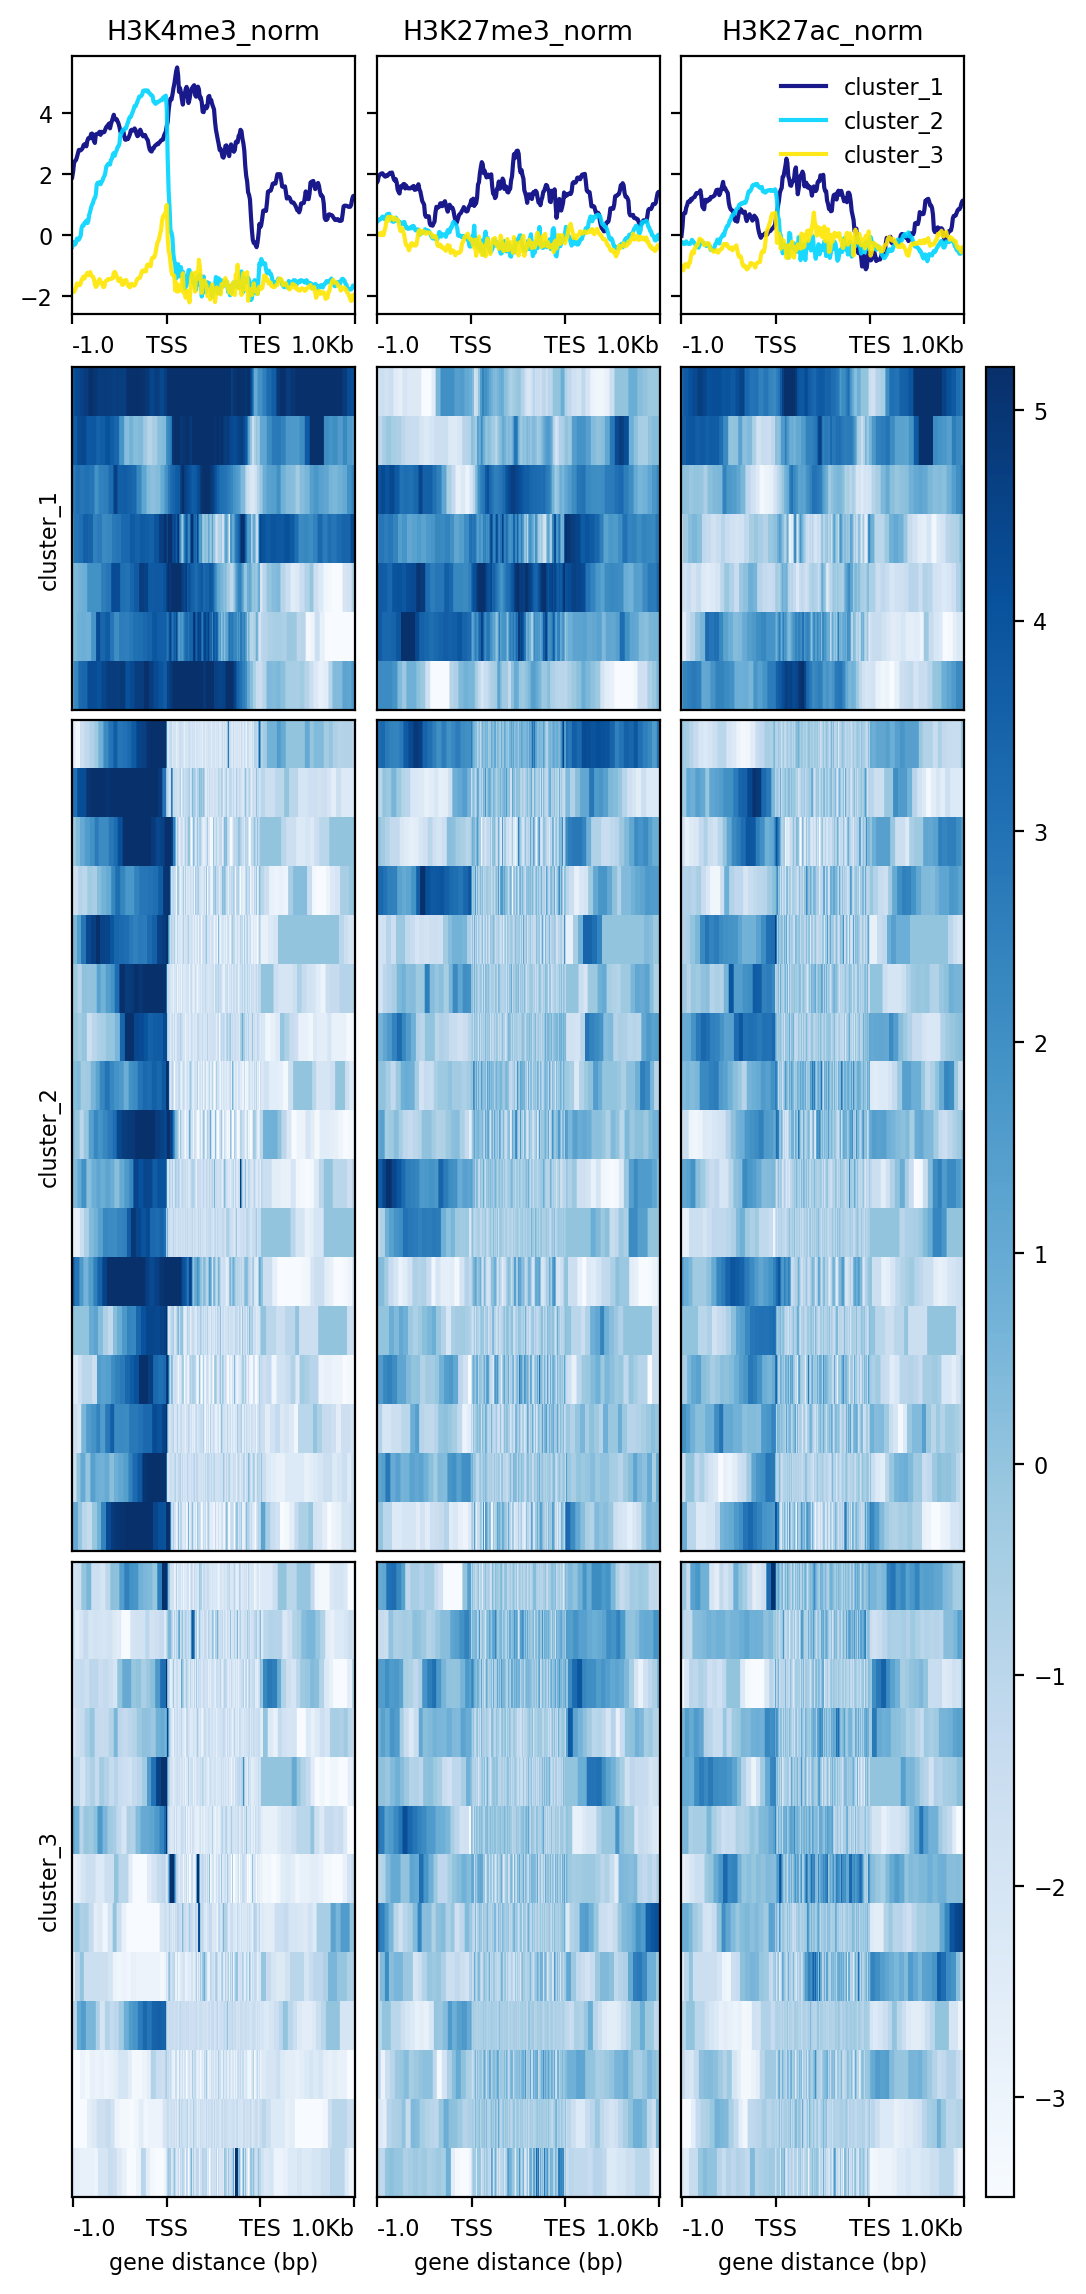
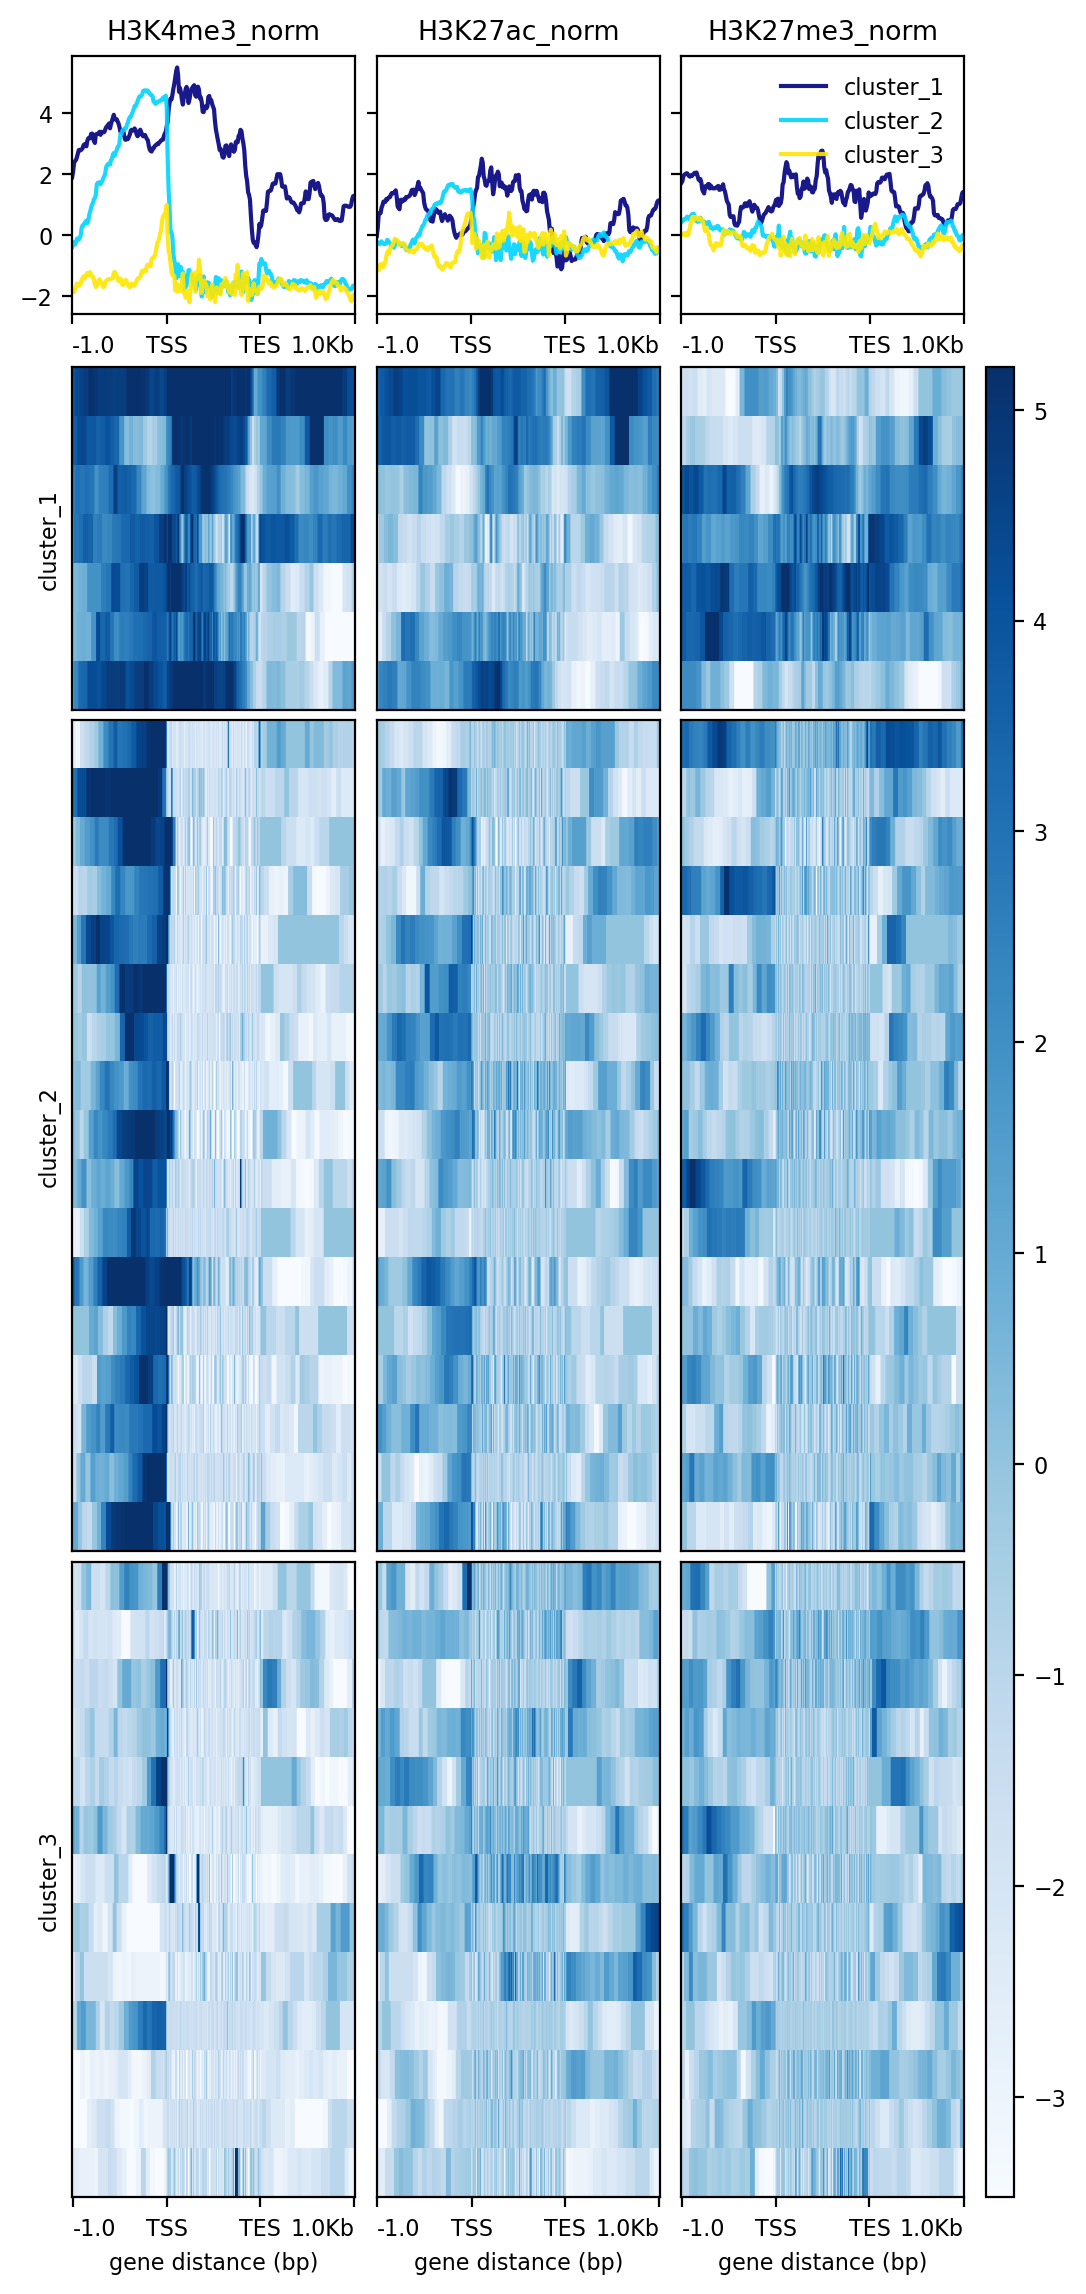
Assignment 5 update

diff --git a/Assignment_5/Assignment_5.md b/Assignment_5/Assignment_5.md
@@ -238,13 +238,13 @@ pscp -P 22 cbarcl01@gi-edu-sv4.bme.ubc.ca:/home/cbarcl01/Assignment_5/Heatmap1.p
 
 #?# Explain what you are looking at (Axes, colours, curves). Where are the marks located? What are the differences between the clusters? - 3 pts
 
-The heat maps display data in a grid where each row represents a gene and each column represents a sample. The colour and intensity of the boxes is used to represent changes (not absolute values) of gene expression. The bottom axes displays gene distance in base pairs with the Transcription Start Site and Transcription End Site marked. The 3 clusters show  high/medium/low expression epigenetic marks.  
+The heat maps display data in a grid where each row represents a gene and each column represents a sample. The colour and intensity of the boxes is used to represent changes (not absolute values) of gene expression. The bottom axes displays gene distance in base pairs with the Transcription Start Site and Transcription End Site marked. The 3 clusters show high/medium/low expression regions of the genome.  
 
 For the line graphs above, the height of the line reflects the presence of epigenetic marks.
 
-For the 2 active epigenetics marks (H3K27ac, H3K4me3), H3K4me3 seems to have greater expression. The epigenetic marks appear to be at the Transcription Start Sites. 
+For the 2 active epigenetics marks (H3K27ac, H3K4me3), H3K4me3 seems to be more prevalent. The epigenetic marks appear to be found near the Transcription Start Site
 
-3 clusters show high/medium/low expression epigenetic marks. Cluster 1 seems to have the clearest intensity or increase in expression at the transcription start site vs silencing at the transcription end. For both marks highest intensity (measured by darkest colour) in Cluster 2 is at the located before the transcription start sites. 
+Cluster 1 seems to have the hughest itesnity out of the the three. Cluster 1 also seems to show a peak in intensity immediately after the TSS, with decrease in intensity suggesting silencing at TES for the active H3K4me3 and H3K27ac. For both active marks the highest expression (the darkest colour) in Cluster 2 is located before the TSS with values decreasing immediately after the TSS. Cluster 3 seems to be more homogenous/constant across the markers, with a narrower eak in expression at the TSS in H3K4me3.
 ```
 
 **Add screenshot here**
@@ -254,9 +254,9 @@ files](https://github.com/cbarcl01/CB_BMEG591E-repository/blob/master/Assignment
 
 ``` bash
 ## Now the above heatmap was made with the ratio of ChIP to input. Repeat the process above, but this time using the raw bigwig files (not input-normalized). 
-#?# Type the commands you used for this below - 1 pt
+#?# Type the commands you used for this below - 1 pt (H3K4me3, H3K27ac, H3K27me3)
 
-computeMatrix scale-regions -S /home/cbarcl01/Assignment_5/H3K27me3_chr3_subset.bw  /home/cbarcl01/Assignment_5/H3K4me3_chr3_subset.bw  /home/cbarcl01/Assignment_5/H3K27ac_chr3_subset.bw -R /usr/local/share/data/assignment_5/reference_genes.bed -a 1000 -b 1000 -o ./computematrix2.gz
+computeMatrix scale-regions -S  /home/cbarcl01/Assignment_5/H3K4me3_chr3_subset.bw  /home/cbarcl01/Assignment_5/H3K27ac_chr3_subset.bw /home/cbarcl01/Assignment_5/H3K27me3_chr3_subset.bw -R /usr/local/share/data/assignment_5/reference_genes.bed -a 1000 -b 1000 -o ./computematrix2.gz
 
 plotHeatmap -m ./computematrix2.gz \
      -out Heatmap2.png \
@@ -275,7 +275,7 @@ Because the data is not input normalised, the signals appear stronger so the int
 **Add screenshot here**
 
 ![Heatmap with raw bigwig
-files](https://github.com/cbarcl01/CB_BMEG591E-repository/blob/master/Assignment_5/Heatmap2.png)
+files](C:\\Users\\cbarc\\OneDrive\\Desktop\\git_temp\\CB_BMEG591E-repository\\Assignment_5\\Heatmap2.png)
 
 ***How does this compare to the input-normalized data? Why? 1 pt***
 
